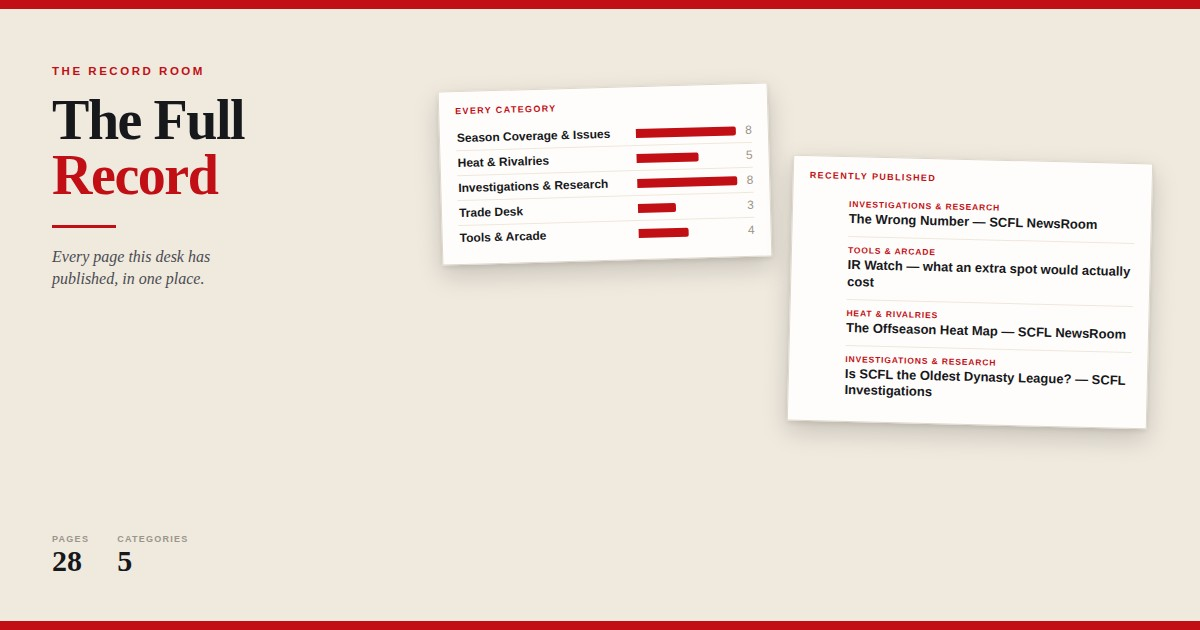
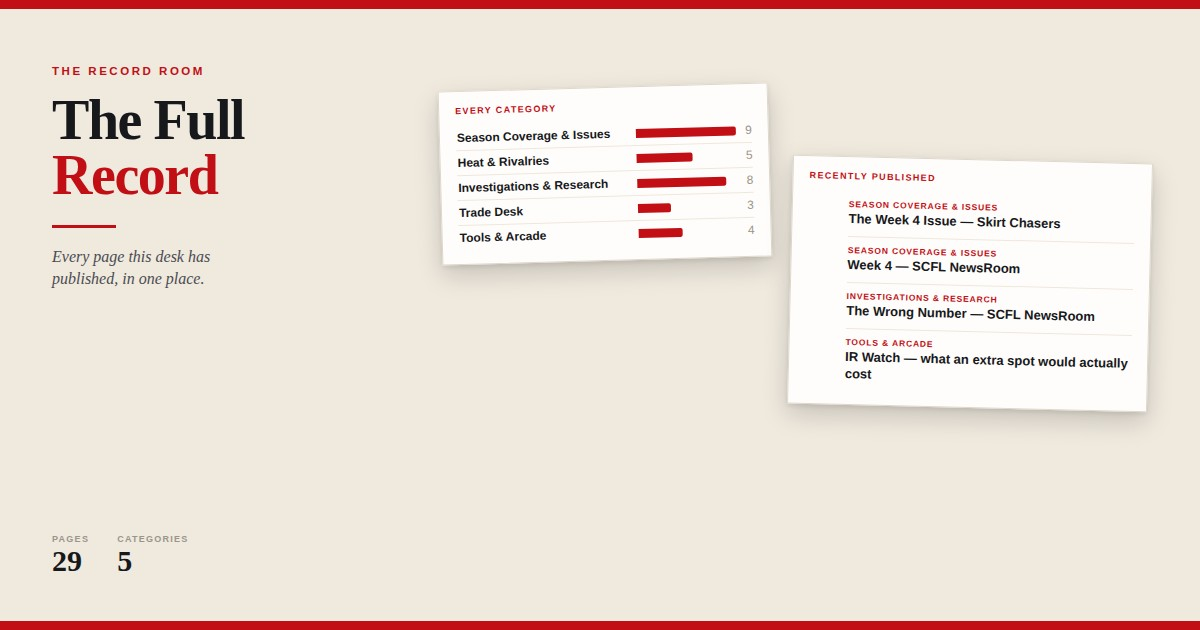
Publish the Week 4 issue
The catalog only recognised scfl-week-N.html, so the flip issue itself --
scfl-week-N-issue.html -- would have failed the build the next time the index
ran. Both shapes are recognised now.

The standalone page was still carrying the generated prose while the issue
carried the written copy, which meant two published pages describing the same
eight games differently. Rendering is now shared: if a week has been written,
both use that copy, the way everything else in this repo is built so two
artefacts cannot disagree about one fact.

29 pages in the catalog across five categories.

Claude-Session: https://claude.ai/code/session_01UFuyFKGPqfLKJjzL4J7sQk

diff --git a/scfl-week-4.html b/scfl-week-4.html
@@ -6,7 +6,7 @@
 <meta property="og:type" content="article">
 <meta property="og:site_name" content="SCFL NewsRoom">
 <meta property="og:title" content="SCFL Week 4">
-<meta property="og:description" content="Kamara Wins It Late for n.W.o — and seven more. Week 4 of the SCFL, rebuilt play by play.">
+<meta property="og:description" content="Two Men, Two Halves of a Quarter, One Game — and seven more. Week 4 of the SCFL, rebuilt play by play.">
 <meta name="twitter:card" content="summary_large_image">
 <link rel="icon" href="newsroom-favicon.png">
 <style>
@@ -51,11 +51,11 @@ p.b{margin:0 0 15px;max-width:63ch;}
 <div class="mast">Week <em>4</em></div>
 <div class="tag">Eight games, replayed from the tape</div>
 <div class="rule"></div>
-<div class="sect">The Game of the Week</div><article><h2>Kamara Wins It Late for n.W.o</h2><div class="score">n.W.o 85.26 &middot; Phins Phag 76.34</div><div class="dek">n.W.o 85.26, Phins Phag 76.34. 10 lead changes, and the last one was the only one that kept.</div><p class="b">My scorekeeper asked to be relieved at halftime. n.W.o and Phins Phag swapped the lead 10 times before one of them finally kept it, and n.W.o were the ones holding it when the weekend ran out: 85.26–76.34.</p><p class="b">The play that settled it came in the fourth quarter, Monday night: Alvin Kamara with a 3-yard touchdown run. That put n.W.o in front at 80.56–76.34, and for all the traffic that had come before it, nobody took it back. There were 9 touchdowns in this game and the one that mattered went n.W.o’s way last.</p><p class="b">n.W.o moved to 2-2, second in The Four Horsemen. Phins Phag fell to 0-4, fourth in The Four Horsemen, and are still looking for a first win. Phins Phag are sixteenth of 16, and the 411 points conceded is most of the reason.</p><p class="b">Will Reichard led the winners with 19.0, though Alvin Kamara and Patrick Mahomes did enough that he did not have to do it alone. Chuba Hubbard actually outscored every man on the field with 24.9 and still lost, which tells you plenty about the other nine spots.</p><p class="b">My producer is still lying down.</p></article>
+<div class="sect">The Game of the Week</div><article><h2>Two Men, Two Halves of a Quarter, One Game</h2><div class="score">n.W.o 85.26 &middot; Phins Phag 76.34</div><div class="dek">Chuba Hubbard spent the first half of the fourth dragging Phins Phag into the lead on his own. Alvin Kamara spent the second half taking it straight back.</div><p class="b">Ten lead changes, two teams who could not shake each other off for four quarters, and in the end it came down to two running backs who were never on the field at the same time.</p><p class="b">Through three quarters this was n.W.o&#x27;s. Patrick Mahomes threw two touchdowns, Will Reichard kicked from 47, 50, 41 and 29 — a placekicker, outscoring every skill player his manager owns, 19.0 of them — and they led 68-51 going into the fourth with the thing apparently settled.</p><p class="b">Then Chuba Hubbard played the fourth quarter. Not his team: him. Two touchdowns, 24.9 points, every single one of them after the third quarter ended, and when he went in from two yards with nine minutes and twelve seconds left Phins Phag led 70.94 to 69.46 for the first time since the second. n.W.o had nothing left to put on the field. Everybody they owned had already played.</p><p class="b">Except one. Alvin Kamara took the last five minutes and did the identical thing in reverse — three yards for a touchdown to take the lead back at 4:15, five yards for another with forty-five seconds to go, 17.8 points, all of them after Hubbard had finished. 85.26 to 76.34.</p><p class="b">n.W.o are 2-2 and thoroughly average in a way four weeks has not resolved: 340 scored, 364 conceded, two wins, two defeats, nothing to tell you which they are. Phins Phag are 0-4 and last in the league, and the hard part is that they played well here. Hubbard was the best man on the field by six points. They still lost. That is what 0-4 feels like from the inside, and there are ten weeks of it left to get out of.</p></article>
 <div class="sect">The Scoreboard</div>
-<table class="board"><tbody><tr><td class="w">Beaver Eaters</td><td class="n">138.94</td><td style="color:var(--faint)">BIG BLUE</td><td class="n">114.12</td><td class="m">+24.8</td></tr><tr><td class="w">The Powers of Pain</td><td class="n">135.8</td><td style="color:var(--faint)">Smoke Dragons</td><td class="n">100.64</td><td class="m">+35.2</td></tr><tr><td class="w">Master-Jeti</td><td class="n">118.02</td><td style="color:var(--faint)">Killer Klowns</td><td class="n">105.2</td><td class="m">+12.8</td></tr><tr><td class="w">THE MACHINES</td><td class="n">106.08</td><td style="color:var(--faint)">Lil’ Chops</td><td class="n">100.38</td><td class="m">+5.7</td></tr><tr><td class="w">Horsecollars</td><td class="n">119.6</td><td style="color:var(--faint)">Gumbas</td><td class="n">60.14</td><td class="m">+59.5</td></tr><tr><td class="w">StillTheCream</td><td class="n">96.9</td><td style="color:var(--faint)">Guido Haters</td><td class="n">78.06</td><td class="m">+18.8</td></tr><tr><td class="w">n.W.o</td><td class="n">85.26</td><td style="color:var(--faint)">Phins Phag</td><td class="n">76.34</td><td class="m">+8.9</td></tr><tr><td class="w">Pork Chop Express</td><td class="n">100.22</td><td style="color:var(--faint)">Wookie Leaks</td><td class="n">58.62</td><td class="m">+41.6</td></tr></tbody></table>
+<table class="board"><tbody><tr><td class="w">Beaver Eaters</td><td class="n">138.94</td><td style="color:var(--faint)">BIG BLUE</td><td class="n">114.12</td><td class="m">+24.8</td></tr><tr><td class="w">The Powers of Pain</td><td class="n">135.8</td><td style="color:var(--faint)">Smoke Dragons</td><td class="n">100.64</td><td class="m">+35.2</td></tr><tr><td class="w">Master-Jeti</td><td class="n">118.02</td><td style="color:var(--faint)">Killer Klowns</td><td class="n">105.2</td><td class="m">+12.8</td></tr><tr><td class="w">THE MACHINES</td><td class="n">106.08</td><td style="color:var(--faint)">Lil&#x27; Chops</td><td class="n">100.38</td><td class="m">+5.7</td></tr><tr><td class="w">Horsecollars</td><td class="n">119.6</td><td style="color:var(--faint)">Gumbas</td><td class="n">60.14</td><td class="m">+59.5</td></tr><tr><td class="w">StillTheCream</td><td class="n">96.9</td><td style="color:var(--faint)">Guido Haters</td><td class="n">78.06</td><td class="m">+18.8</td></tr><tr><td class="w">n.W.o</td><td class="n">85.26</td><td style="color:var(--faint)">Phins Phag</td><td class="n">76.34</td><td class="m">+8.9</td></tr><tr><td class="w">Pork Chop Express</td><td class="n">100.22</td><td style="color:var(--faint)">Wookie Leaks</td><td class="n">58.62</td><td class="m">+41.6</td></tr></tbody></table>
 <div class="sect">The Games</div>
-<article><h2>Goff Wins It Late for THE MACHINES</h2><div class="score">THE MACHINES 106.08 &middot; Lil’ Chops 100.38</div><div class="dek">THE MACHINES 106.08, Lil’ Chops 100.38. 5.7 points in it.</div><p class="b">Close games are only fun when you are not in them. THE MACHINES were behind this football game until the fourth quarter and won it 106.08 to 100.38, which tells you most of what you need and none of how it felt.</p><p class="b">The play that settled it came in the fourth quarter, Sunday night: Jared Goff with an 8-yard touchdown pass. That put THE MACHINES in front at 105.48–100.38, and for all the traffic that had come before it, nobody took it back. There were 12 touchdowns in this game and the one that mattered went THE MACHINES’s way last.</p><p class="b">THE MACHINES moved to 4-0, first in Spartan. Lil’ Chops fell to 2-2 and a second straight defeat, third in Spartan. THE MACHINES sit second in the league on the full table, 468 points scored.</p><p class="b">Chris Rodriguez did the heaviest lifting — a 25-yard touchdown run in the second quarter, the Sunday early games, worth 8.5 on its own, though it was Puka Nacua who finished with the biggest number at 18.7. Lamar Jackson and Jared Goff did the rest of the damage. Aaron Rodgers actually outscored every man on the field with 22.0 and still lost, which tells you plenty about the other nine spots.</p><p class="b">That result will look very different in December.</p></article><article><h2>Master-Jeti Hold Off Killer Klowns</h2><div class="score">Master-Jeti 118.02 &middot; Killer Klowns 105.2</div><div class="dek">Master-Jeti 118.02, Killer Klowns 105.2.</div><p class="b">Not a classic, not a disaster, one of the other ones. Master-Jeti 118.02, Killer Klowns 105.2, a 12.8-point margin that never seriously came under review.</p><p class="b">The play that settled it came in the fourth quarter, Sunday night: Jake Bates with a 43-yard field goal. That put Master-Jeti in front at 109.02–105.2, and for all the traffic that had come before it, nobody took it back. There were 10 touchdowns in this game and the one that mattered went Master-Jeti’s way last.</p><p class="b">Master-Jeti moved to 3-1 and a second straight win, second in Spartan. Killer Klowns fell to 1-3, fourth in Spartan.</p><p class="b">Treylon Burks did the heaviest lifting — a 47-yard touchdown catch in the first quarter, the Sunday early games, worth 10.7 on its own, though it was Kenneth Walker who finished with the biggest number at 29.9. Jake Bates and Seattle Seahawks did the rest of the damage. Kyren Williams answered with 26.7 and it finished 12.8 short.</p><p class="b">Killer Klowns will want to look away from this next bit. Keon Coleman sat on their bench and scored 17.6 while Marcus Mariota held the same slot and returned 4.4 — 13.2 points in a chair, in a game they lost by 12.8. That is not a defeat, that is a self-inflicted wound with a witness.</p><p class="b">A professional afternoon. I have had worse.</p></article><article><h2>Beaver Eaters Hold Off BIG BLUE</h2><div class="score">Beaver Eaters 138.94 &middot; BIG BLUE 114.12</div><div class="dek">Beaver Eaters 138.94, BIG BLUE 114.12.</div><p class="b">No drama, no collapse, no complaints. Faintly disappointing. Beaver Eaters 138.94, BIG BLUE 114.12, a 24.8-point margin that never seriously came under review.</p><p class="b">The play that settled it came in the fourth quarter, Sunday night: Bryce Young with a 32-yard touchdown pass. That put Beaver Eaters in front at 118.98–114.12, and for all the traffic that had come before it, nobody took it back. There were 17 touchdowns in this game and the one that mattered went Beaver Eaters’s way last.</p><p class="b">Beaver Eaters moved to 4-0, first in Black and Blue. BIG BLUE fell to 1-3 and a second straight defeat, third in Black and Blue. Beaver Eaters sit first in the league on the full table, 471 points scored.</p><p class="b">Malik Nabers did the heaviest lifting — a 25-yard touchdown catch in the second quarter, the Sunday early games, worth 8.5 on its own, though it was Javonte Williams who finished with the biggest number at 26.3. Bryce Young and Malik Nabers did the rest of the damage. CeeDee Lamb answered with 24.3 and it finished 24.8 short.</p><p class="b">Beaver Eaters left Drake Maye and his 26.8 on the bench and played Sam Darnold in the spot instead, for 14.0. A free lesson, and those are the only ones anybody takes.</p><p class="b">My producer says move on, and for once he is right.</p></article><article><h2>Pork Chop Express Leave No Doubt</h2><div class="score">Pork Chop Express 100.22 &middot; Wookie Leaks 58.62</div><div class="dek">Pork Chop Express 100.22, Wookie Leaks 58.62. It was over long before it was finished.</div><p class="b">I have watched a lot of these. This was one of them, technically. Pork Chop Express beat Wookie Leaks 100.22 to 58.62, and the 41.6 points between them at the end flatter nobody — Wookie Leaks led early, lost it, and never argued again.</p><p class="b">The play that settled it came in the third quarter, the Sunday late games: Jaxon Smith-Njigba with a 28-yard catch. That put Pork Chop Express in front at 43.26–41.62, and for all the traffic that had come before it, nobody took it back. There were 8 touchdowns in this game and the one that mattered went Pork Chop Express’s way last.</p><p class="b">Pork Chop Express moved to 3-1 and a second straight win, second in Black and Blue. Wookie Leaks fell to 1-3, fourth in Black and Blue.</p><p class="b">Brock Bowers did the heaviest lifting — a 20-yard touchdown catch in the third quarter, the Sunday late games, worth 8.0 on its own, though it was Matt Gay who finished with the biggest number at 16.0. Brock Bowers and James Cook did the rest of the damage. Wookie Leaks got 11.1 from Jacoby Brissett and almost nothing from anybody standing near him.</p><p class="b">Pork Chop Express left Kyle Monangai and his 27.0 on the bench and played D&#x27;Andre Swift in the spot instead, for 5.4. It made no difference to the result, which is the only comfort on offer.</p><p class="b">Next week is also a football game. That is the encouraging part.</p></article><article><h2>The Powers of Pain Handle Smoke Dragons</h2><div class="score">The Powers of Pain 135.8 &middot; Smoke Dragons 100.64</div><div class="dek">The Powers of Pain 135.8, Smoke Dragons 100.64.</div><p class="b">One team was always going to win this. They did it politely. The Powers of Pain 135.8, Smoke Dragons 100.64, a 35.2-point margin that never seriously came under review.</p><p class="b">They took it in the first quarter — Nico Collins with a 45-yard catch, 13.5–12.6 — and then simply never gave it back. 14 touchdowns were scored after that and not one of them put Smoke Dragons in front again.</p><p class="b">The Powers of Pain moved to 2-2, first in Spectre Syndicate. Smoke Dragons fell to 2-2, second in Spectre Syndicate.</p><p class="b">Nico Collins led the winners with 23.8, and C.J. Stroud and Brock Purdy saw to the remainder. Bijan Robinson actually outscored every man on the field with 26.7 and still lost, which tells you plenty about the other nine spots.</p><p class="b">Smoke Dragons left Brian Robinson and his 24.7 on the bench and played Jaylen Warren in the spot instead, for 12.6. It went unpunished, which is how habits form.</p><p class="b">Somewhere a waiver claim from August is feeling good about itself.</p></article><article><h2>StillTheCream Survive the Back-and-Forth</h2><div class="score">StillTheCream 96.9 &middot; Guido Haters 78.06</div><div class="dek">StillTheCream 96.9, Guido Haters 78.06. 10 lead changes, and the last one was the only one that kept.</div><p class="b">Now this one I enjoyed, and I enjoy almost nothing. StillTheCream and Guido Haters swapped the lead 10 times before one of them finally kept it, and StillTheCream were the ones holding it when the weekend ran out: 96.9–78.06.</p><p class="b">They took it in the first quarter — Luther Burden with a 7-yard catch, 14.26–13.96 — and then simply never gave it back. 10 touchdowns were scored after that and not one of them put Guido Haters in front again.</p><p class="b">StillTheCream moved to 1-3, fourth in Spectre Syndicate. Guido Haters fell to 1-3 and a second straight defeat, third in Spectre Syndicate.</p><p class="b">Ka&#x27;imi Fairbairn led the winners with 16.0, and Rhamondre Stevenson and Jordan Love kept him company. Emanuel Wilson actually outscored every man on the field with 24.0 and still lost, which tells you plenty about the other nine spots.</p><p class="b">Guido Haters left Romeo Doubs and his 17.8 on the bench and played Ja&#x27;Marr Chase in the spot instead, for 2.7. It cost them nothing in the end, which is the best that can be said for it.</p><p class="b">Somebody put that one on the tape and keep it somewhere safe.</p></article><article><h2>Horsecollars Make It Hurt</h2><div class="score">Horsecollars 119.6 &middot; Gumbas 60.14</div><div class="dek">Horsecollars 119.6, Gumbas 60.14. It was over long before it was finished.</div><p class="b">This was not a football game, it was a receipt. Horsecollars beat Gumbas 119.6 to 60.14, and the 59.5 points between them at the end flatter nobody — Gumbas did not lead at any stage of this football game.</p><p class="b">There is no sequence to describe, because there was no sequence. Horsecollars scored first, kept scoring, and the remainder was arithmetic performed in public.</p><p class="b">Horsecollars moved to 4-0, first in The Four Horsemen. Gumbas fell to 1-3 and a second straight defeat, third in The Four Horsemen. Horsecollars sit third in the league on the full table, 456 points scored.</p><p class="b">Tetairoa McMillan led the winners with 31.2, with useful afternoons from Jonathan Taylor and Zay Flowers as well. Tyquan Thornton managed 23.1 for Gumbas, which on an afternoon like this one is a lovely painting in a burning house.</p><p class="b">Horsecollars left Isaiah Williams and his 13.3 on the bench and played Kalif Raymond in the spot instead, for 0.6. The result survived it. Their dignity is a separate question.</p><p class="b">File it, forget it, and let us never speak of it again.</p></article>
+<article><h2>Down Forty-Nine, and Still Four and Oh</h2><div class="score">THE MACHINES 106.08 &middot; Lil&#x27; Chops 100.38</div><div class="dek">The Machines did not score a point in the first quarter and were forty-nine behind when they finally did. They won it with seven minutes left. Nobody beats these people comfortably, including these people.</div><p class="b">Here is a number for you: forty-nine to nothing, in the first quarter. Aaron Rodgers threw three touchdown passes inside six minutes. Quinshon Judkins ran one in. DK Metcalf caught a forty-three yarder. Lil&#x27; Chops put up half a hundred points before The Machines had a man on the board, and I wrote a note to myself that said this one is finished.</p><p class="b">I am an idiot. The Machines spent the next three quarters reeling it in a yard at a time — Derrick Henry late in the first, Lamar Jackson twice either side of the interval, Puka Nacua just after — and it came down to Jared Goff throwing eight yards with seven minutes and forty-two seconds left in the fourth. That was the first time all afternoon The Machines led. It was also the only lead change in the game. 106.08 to 100.38.</p><p class="b">What makes it worth writing down is that it is now a habit. The Machines are 4-0 and have not won a comfortable game yet: 113-100 over the Powers of Pain, now this. Four weeks, 468 points, second in the league, and every single one of them a fight they could have lost. Either that is a team that knows how to finish or it is a coin that has come up heads four times. December will tell us which.</p><p class="b">Lil&#x27; Chops fall to 2-2 and will not want to hear it, but Rodgers also threw two interceptions in that same opening quarter, and twenty-two points from a quarterback who hands four of them back is not the bargain it looks like. They also left Rashid Shaheed and his 11.3 on the bench for Garrett Wilson, who managed 2.7, in a game decided by 5.7. I am not going to say it. They know.</p><p class="b">The Machines did the same thing, mind — Roman Wilson sat there with 13.4 while DJ Moore started and returned 1.7. Both of these managers got away with something. Only one of them got away with it twice.</p></article><article><h2>A Kicker Beat Them, and They Helped</h2><div class="score">Master-Jeti 118.02 &middot; Killer Klowns 105.2</div><div class="dek">Jake Bates kicked three field goals in the first five minutes of the fourth quarter. Killer Klowns had more than the margin sitting on their bench.</div><p class="b">Killer Klowns led this game from the eighth minute of the first quarter until the fourth, which is most of it, and then a placekicker took it off them. Jake Bates hit from 54 with fourteen minutes left, from 43 with thirteen, and from 41 with ten. Eighteen points from a man who does not play offence, three of them inside five minutes, and the middle one was the moment it turned.</p><p class="b">Kenneth Walker had already done the heavy lifting, 29.9 of it, including a seventy-six yard run in the third that was the single best thing anybody did in this match. Kyren Williams answered with 26.7 and two touchdowns inside four minutes of the second quarter, and for a while this looked like a rout the other way — it was 91-33 before half. It finished 118-105.</p><p class="b">The part the Klowns will not enjoy: Keon Coleman scored 17.6 on their bench while Marcus Mariota started in the same slot and returned 4.4. A gap of 13.2, in a game they lost by 12.82. Not a near miss, not a what-if. The win was sitting in the drawer and nobody opened it.</p><p class="b">Master-Jeti go to 3-1 and second in the Spartan. Killer Klowns go to 1-3, bottom of the same division, and have lost three of four while scoring 365 points, which is not a disaster of a number. They are not being beaten. They are losing, which is different and worse.</p></article><article><h2>The Best Bad Team in the League</h2><div class="score">Beaver Eaters 138.94 &middot; BIG BLUE 114.12</div><div class="dek">BIG BLUE have scored more points than all but one team in the SCFL. They are 1-3. Beaver Eaters beat them and went four and oh.</div><p class="b">Spencer Shrader kicked three field goals inside thirty-three seconds of the first quarter and Beaver Eaters were sixteen up before anybody on the other side had moved, which sounds like the story and is not. BIG BLUE came back and led this. Joe Burrow ran one in from a yard with two and a half minutes left in the half to put them in front at 81-78, CeeDee Lamb caught a twelve-yarder before the whistle, and they went into the second half ahead.</p><p class="b">Then Bryce Young threw a thirty-two yard touchdown three minutes into the fourth, Jahmyr Gibbs ran one in forty seconds later, Young threw another two minutes after that, and the game was gone. Javonte Williams finished with 26.3 and three touchdowns. Beaver Eaters are 4-0 and top of the entire league.</p><p class="b">But the team worth talking about is the losing one. BIG BLUE have scored 475 points in four weeks. Only Pork Chop Express have more, by a single point. They are averaging 119 a week, which would beat most of this league most weeks. Their record is 1-3.</p><p class="b">Look at how. Beaten 112-90 in week one. Beaten 112-111 in week three — one point, by the only other unbeaten side left. Now this. They have drawn the three highest-scoring opponents on the schedule so far and their reward is tenth of sixteen. If there is a more unlucky football team in this competition I have not found it, and I have been looking.</p><p class="b">Beaver Eaters also left Drake Maye and his 26.8 on the bench and played Sam Darnold for 14.0. When you are 4-0 you get to call that a rotation decision.</p></article><article><h2>Three Interceptions and a Long Walk Home</h2><div class="score">Pork Chop Express 100.22 &middot; Wookie Leaks 58.62</div><div class="dek">Wookie Leaks led this for a quarter and a half. By the end they had been beaten by forty-one, by a team that left twenty-one points on its own bench.</div><p class="b">Harold Fannin caught a touchdown in the first quarter and Wookie Leaks led this football game for a quarter and a half. Then Jacoby Brissett threw three interceptions, Jalon Daniels threw two of his own in reply, and what had been a contest became a question of which quarterback would stop giving it away first. Daniels stopped. Brissett did not.</p><p class="b">The lead changed once, nine minutes into the third, when Jaxon Smith-Njigba caught twenty-eight yards to put Pork Chop Express in front at 43.26. Nobody went near it again. Matt Gay kicked three field goals in the space of five minutes, Brock Bowers scored on the quarter&#x27;s final play, and Chris Olave caught a forty-four yarder in the fourth when it had long stopped mattering. 100.22 to 58.62.</p><p class="b">Now the detail that should worry this division. Pork Chop Express won by 41.6 with Kyle Monangai sitting on their bench scoring 27.0, while D&#x27;Andre Swift started in the same slot and returned 5.4. They were twenty-one and a half points worse than they could have been and it was still the second-heaviest beating of the week.</p><p class="b">They are 3-1 with 476 points, the most in the league. Wookie Leaks are 1-3 with 300, the second fewest, and have now been beaten by 55, by 27 and by 42. Their one win came against a side that has since lost four straight. That is not a slump, that is the table telling the truth.</p></article><article><h2>Bijan Robinson Arrived Too Late</h2><div class="score">The Powers of Pain 135.8 &middot; Smoke Dragons 100.64</div><div class="dek">The Powers of Pain took the lead in the first quarter and never gave it back. Smoke Dragons concede more than almost anybody, and it is catching up with them.</div><p class="b">Nico Collins caught forty-five yards seven minutes into the first quarter, put the Powers of Pain in front, and that was the game. Not the best play, not the biggest — just the last lead change there was, with three quarters still to play. They were thirty-six clear at one stage. Collins caught two more touchdowns, C.J. Stroud threw both of them, Brock Purdy threw one of fifty-six yards as the third quarter ran out, and Sam LaPorta scored early in the fourth.</p><p class="b">Jameis Winston was busy for the losers — three touchdown passes, 19.0 points, and two interceptions in the middle of the second quarter to go with them, which is the Winston experience in a sentence. Malachi Fields caught a touchdown and added a forty-yarder. It was not enough and was never going to be.</p><p class="b">Then, with six and a half minutes left, Bijan Robinson ran fifty-nine yards for a touchdown. Two minutes after that he ran four more for another. He finished with 26.7, the best number on either roster. By the time the first of them went in, his team were thirty-four points behind. There is a particular cruelty in a man playing that well in a game that had been decided an hour earlier.</p><p class="b">Smoke Dragons drop to 2-2 and the worry is not the record, it is the other column. 408 points conceded in four weeks, second worst in the league; 320 scored, fourth worst. They have been beaten 120-44 and now 136-101, and their two wins came by 19 and by 3. This is a team winning narrowly and losing enormously, and across fourteen weeks that arithmetic does not end anywhere good.</p><p class="b">One more, and it is a sore one. Brian Robinson scored 24.7 on their bench while Jaylen Warren started in the same slot for 12.6. Twelve points. They lost by thirty-five, so it changes nothing, which is the only reason it is safe to mention.</p></article><article><h2>StillTheCream Win One, Finally, In About a Quarter</h2><div class="score">StillTheCream 96.9 &middot; Guido Haters 78.06</div><div class="dek">Ten lead changes in the first quarter, then one enormous second, and a first win of the season. Guido Haters had the answer on their bench.</div><p class="b">Ten lead changes in this football game and every single one of them happened in the first quarter. Deshaun Watson and Denzel Boston spent the opening six minutes trading it back and forth like a hot plate — six changes of lead before the quarter was half gone, which I have not seen before and would rather not again, because I had to write each one down.</p><p class="b">Then, at 14-13 with the second quarter barely started, somebody turned the lights on. Ka&#x27;imi Fairbairn kicked from 51. Jordan Love threw a touchdown. Rhamondre Stevenson ran one in. Fairbairn kicked from 54. George Pickens caught fifty-three yards, Love threw another, and Tucker Kraft scored twelve seconds later. Inside one quarter StillTheCream went from fourteen points to eighty-five and the game stopped being competitive.</p><p class="b">It is their first win of the year, which matters more than the manner of it. They arrived 0-3 having scored 178 points in three games, the worst offence in the league by a distance, and have now put up 96.9 in an afternoon. One week does not undo three. It does suggest the roster is not as empty as the table said.</p><p class="b">Guido Haters had a third quarter of their own, Emanuel Wilson scoring twice and Kirk Cousins throwing two more to close within fifteen. They also started Ja&#x27;Marr Chase for 2.7 while Romeo Doubs scored 17.8 on the bench. Fifteen points of difference in a nineteen-point defeat. It would not quite have won it. It would have made the last quarter interesting, which is more than most managers get.</p></article><article><h2>Gumbas Spent the Second Quarter Below Zero</h2><div class="score">Horsecollars 119.6 &middot; Gumbas 60.14</div><div class="dek">Horsecollars won by fifty-nine and are unbeaten. Three weeks ago they won by one. Nothing about this team&#x27;s record tells you how it was earned.</div><p class="b">There is not a great deal to report here and I am going to report it anyway, because the numbers are genuinely remarkable. Ten minutes into the second quarter, Gumbas were on minus 1.86 points. Not a low score. A negative one. Matthew Stafford had thrown two interceptions and that, for the best part of a half, was the entire contribution.</p><p class="b">By then Jonathan Taylor had run in two touchdowns inside a minute of each other, Zay Flowers had caught one and added a fifty-two yarder, Brandon Aubrey had kicked a fifty, and Geno Smith had thrown a fifty-eight yard touchdown. It was 69.58 to 0.54 with four minutes left in the half. The game was over before anybody had their coat off.</p><p class="b">To their credit Gumbas did eventually turn up. Tyquan Thornton caught two touchdowns and two long balls through the third for 23.1, and George Kittle took a fifty-six yarder to the house with two minutes left in the quarter — worth 11.6, the single biggest play anyone made all week, in a game that had been decided for an hour. Tetairoa McMillan then scored twice early in the fourth for 31.2, just to settle an argument nobody was having.</p><p class="b">Horsecollars are 4-0 and third in the league, and here is what to notice about them: three weeks ago they beat BIG BLUE 112-111. One point. This week, fifty-nine. Same team, same month. They have a 456-point offence and no identity yet, and until somebody beats them we have no idea whether they are the best team in this league or the luckiest.</p><p class="b">Gumbas fall to 1-3 with 294 points, fewest of anybody, and have been beaten by 41, by 44 and now by 59. The week they won, they scored 79. This is not a form problem.</p></article>
 <div class="more">Every game on this page was rebuilt from real plays. Each scoring play in a
 manager&rsquo;s week &mdash; the yardage, the touchdown, the order it happened in &mdash; is laid
 onto sixty minutes by the window its NFL game sat in, so Thursday night opens the first quarter

diff --git a/scripts/write_week.py b/scripts/write_week.py
@@ -611,6 +611,14 @@ def build(season, week):
     rp = json.load(open(os.path.join(WDIR, f'{season}-w{week}-replay.json'), encoding='utf-8'))
     wd = json.load(open(os.path.join(WDIR, f'{season}-w{week}.json'), encoding='utf-8'))
     windows = {w['code']: w['label'] for w in rp['windows']}
+    # If the week has been written, the standalone page uses that copy too.
+    # Two published pages about the same eight games must not disagree.
+    pw = os.path.join(WDIR, f'{season}-w{week}-written.json')
+    if os.path.exists(pw):
+        d = json.load(open(pw, encoding='utf-8'))
+        print('  using the written stories')
+        return render(season, week, d['stories'], d.get('lead', 0), write_stories=False)
+
     slots = [x for x in (wd.get('roster_positions') or []) if x != 'BN']
     st = sd.build(str(season), int(week))
     if st and st['through'] != int(week):
@@ -631,7 +639,13 @@ def build(season, week):
             bonus = 7 if late(go) else (3 if go['fc']['qtr'] == 4 else 0)
         return g['lead_changes'] + bonus - stories[i]['margin'] / 5
     lead_i = max(range(len(stories)), key=watchability)
+    return render(season, week, stories, lead_i)
 
+
+def render(season, week, stories, lead_i, write_stories=True):
+    """Lay the stories out as the standalone page. Shared by the generated and
+    the written copy, so the two published pages cannot describe the same eight
+    games differently."""
     board = ''
     for s in sorted(stories, key=lambda s: -(s['score'][0] + s['score'][1])):
         board += (f'<tr><td class="w">{E(s["winner"])}</td><td class="n">{s["score"][0]}</td>'
@@ -657,7 +671,8 @@ def build(season, week):
                 .replace('__BODY__', body).replace('__DESC__', desc))
     out = os.path.join(ROOT, f'scfl-week-{week}.html')
     open(out, 'w', encoding='utf-8').write(page)
-    json.dump({'season': season, 'week': week, 'lead': lead_i, 'stories': stories},
+    if write_stories:
+        json.dump({'season': season, 'week': week, 'lead': lead_i, 'stories': stories},
               open(os.path.join(WDIR, f'{season}-w{week}-stories.json'), 'w', encoding='utf-8'),
               ensure_ascii=False, indent=1)
     print(f'wrote scfl-week-{week}.html ({len(page):,} chars)')

diff --git a/scripts/build_site_index.py b/scripts/build_site_index.py
@@ -124,7 +124,7 @@ def build():
         cat = CATEGORY.get(rel)
         # weekly issues are generated, one per week, so they cannot be a
         # hand-maintained list without breaking the build every Tuesday
-        if not cat and re.match(r'scfl-week-\d+\.html$', rel):
+        if not cat and re.match(r'scfl-week-\d+(?:-issue)?\.html$', rel):
             cat = 'Season Coverage & Issues'
         if not cat:
             missing_category.append(rel)
